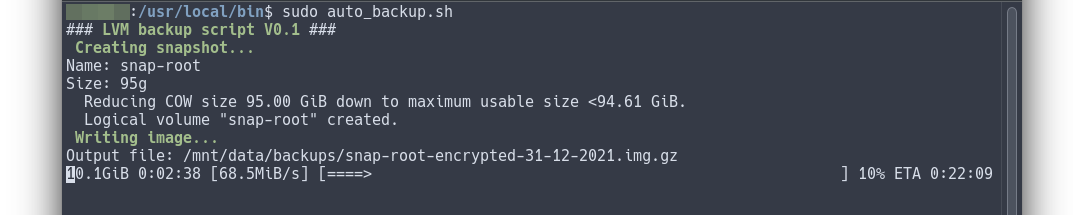
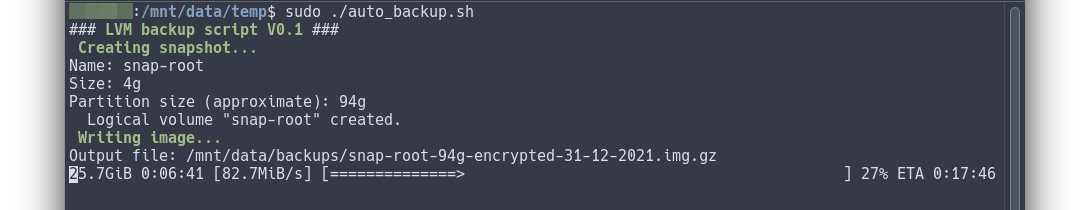
Changed snapshot size to 5% of the partition. Tweaked readme.

diff --git a/README.md b/README.md
@@ -12,22 +12,25 @@
 
 ### Requirements:
 * Disk partitions must be provisioned using LVM
-* Volume group (VG) must have enough unallocated free space for the snapshot. If the logical volume (LV) being backed up is 60GB in size, then 60GB of free space is needed. This might be an overkill (TODO: add a switch / variable to adjust that), but it ensures that changes made to the file system during backup process can't outgrow snapshot size and therefore render it (and the backup image) unusable.
+* Volume group (VG) must have enough unallocated free space for the snapshot. Script will attempt to use around 5% of the partition size. If the logical volume (LV) being backed up is 60GB in size, then 3GB of free space is needed for the snapshot. As best practice, the backups should be taken during periods of low activity on the system in order to ensure that changes made to the file system during backup process can't outgrow snapshot size and therefore render it (and the backup image) unusable.
 * Required software: pigz, openssl, pv
 
 ### Setup:
-
+0. Become root / su. On Ubuntu:
+```
+sudo -i
+```
 1. Ensure required software is installed. On Ubuntu:
 ```
-sudo apt install pigz openssl pv
+apt install pigz openssl pv
 ```
 2. Download the script to /usr/local/bin on your system:
 ```
-sudo curl https://raw.githubusercontent.com/sharket/linux-lvm-backups/main/auto_backup.sh -o /usr/local/bin/auto_backup.sh
+curl https://raw.githubusercontent.com/sharket/linux-lvm-backups/main/auto_backup.sh -o /usr/local/bin/auto_backup.sh
 ```
 2. Make it executable:
 ```
-sudo chmod +x /usr/local/bin/auto_backup.sh
+chmod +x /usr/local/bin/auto_backup.sh
 ```
 3. Edit the script and define variables:
 ```
@@ -49,12 +52,12 @@ OUTPUT_FOLDER="/mnt/data/backups/"
 ```
 4. Create backup secret (password used for encryption) and store it in a file. IMPORTANT: You will need that password to restore the backup!
 ```
-sudo echo 'YOUR_BACKUP_SECRET' > /usr/local/etc/backup_secret.txt
+echo 'YOUR_BACKUP_SECRET' > /usr/local/etc/backup_secret.txt
 ```
-6. Restrict permissions to root only:
+6. Make sure permissions are restricted to root only:
 ```
-sudo chown root:root /usr/local/etc/backup_secret.txt
-sudo chmod 600 /usr/local/etc/backup_secret.txt
+chown root:root /usr/local/etc/backup_secret.txt
+chmod 600 /usr/local/etc/backup_secret.txt
 ```
 7. Script can be run at this point or scheduled using cron.
 
@@ -74,17 +77,15 @@ Additionally, instead of using root account, you can create a dedicated one for 
 ### How to restore?
 You can list available Logical Volumes with sudo lvdisplay command. Let's assume your target partition is /dev/vg_test/temp. Volume Group in this case is named vg_test, Logical Volume is temp. To restore the image:
 
-1. Become root / su first. On Ubuntu:
+0. Become root / su first. On Ubuntu:
 ```
 sudo -i
 ```
 2. Run this to restore:
 ```
-cat 'PATH_TO_YOUR_IMAGE' | openssl enc -aes-256-cbc -md sha512 -d -pbkdf2 -iter 1000 -salt -pass pass:'YOUR_BACKUP_SECRET' | gzip -dk | dd of=/dev/vg_test/temp
+cat 'PATH_TO_YOUR_IMAGE' | openssl enc -aes-256-cbc -md sha512 -d -pbkdf2 -iter 1000 -salt -pass pass:'YOUR_BACKUP_SECRET' | gzip -dk | dd of=/dev/vg_test/temp bs=50M
 ```
-This will wipe all the existing data on that partition! Restoring takes significantly longer time than backing up.
-
-Needles to say, if restoring to a system partition on a live system you need to use separate environment, for example by booting Linux live CD.
+This will wipe all the existing data on that partition! Restoring takes significantly longer time than backing up. Target partition must be the same size or bigger than the source one.
 
 ### More info and sources:
 
